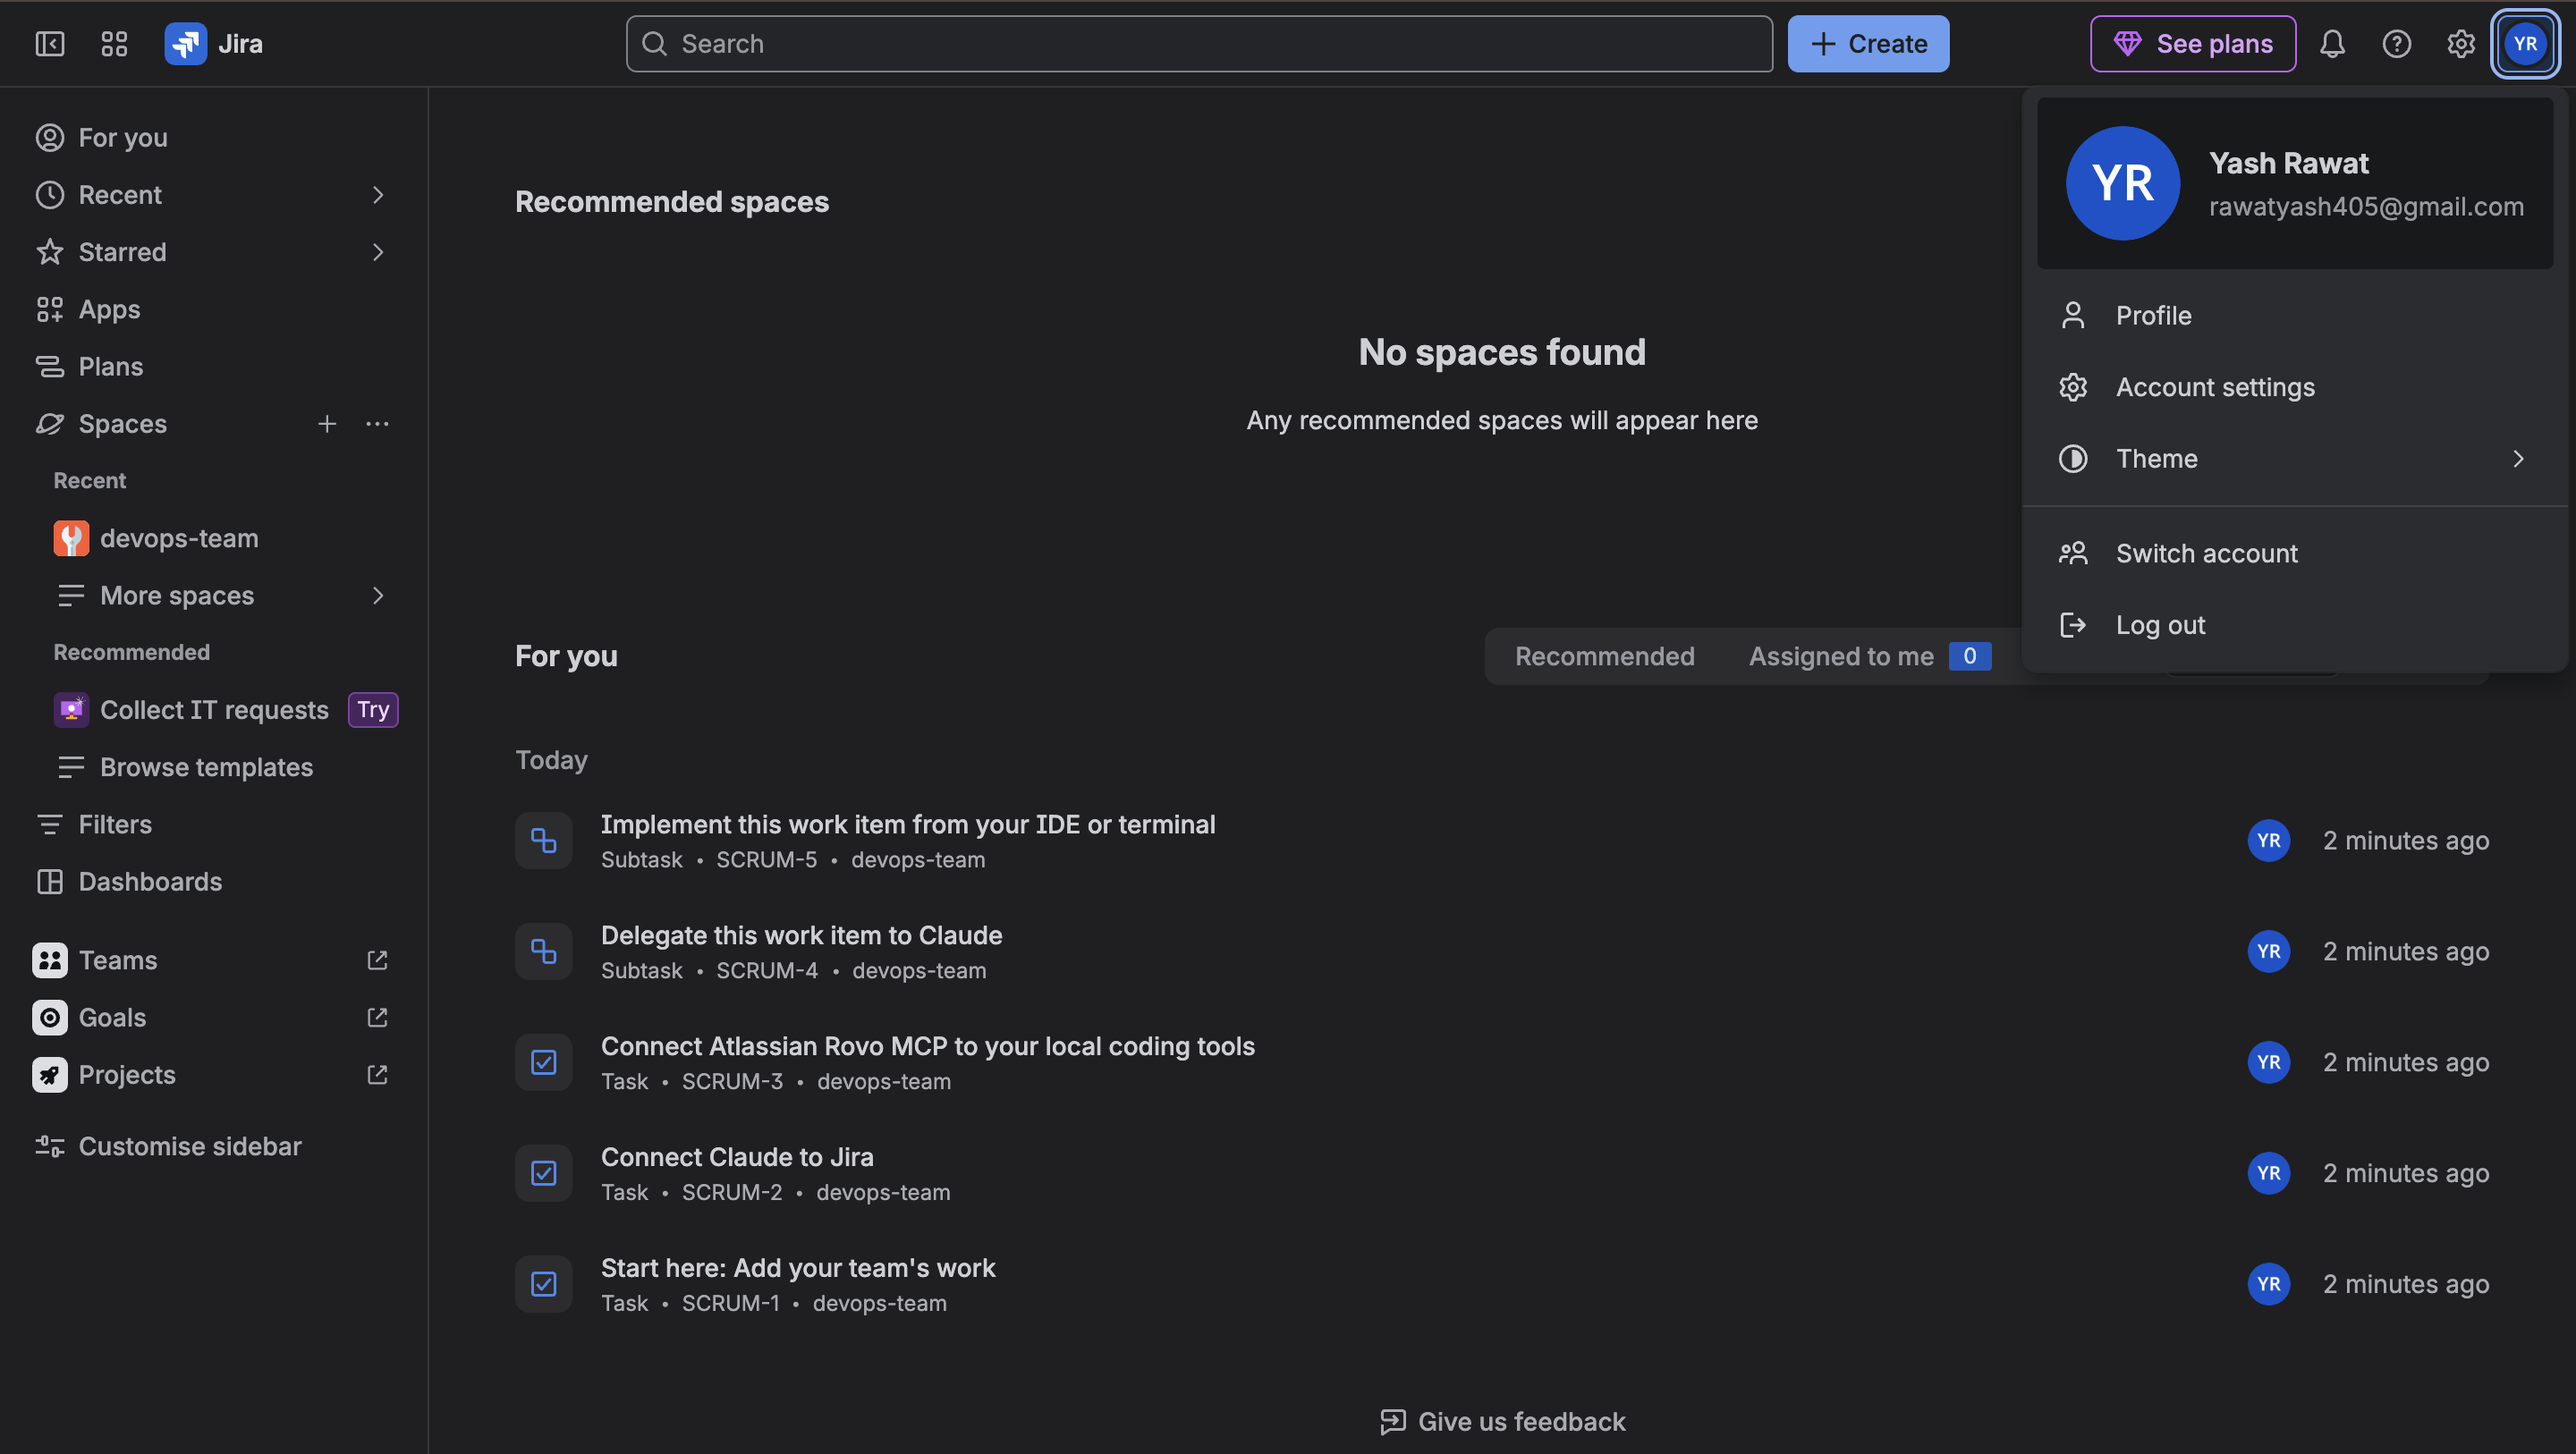
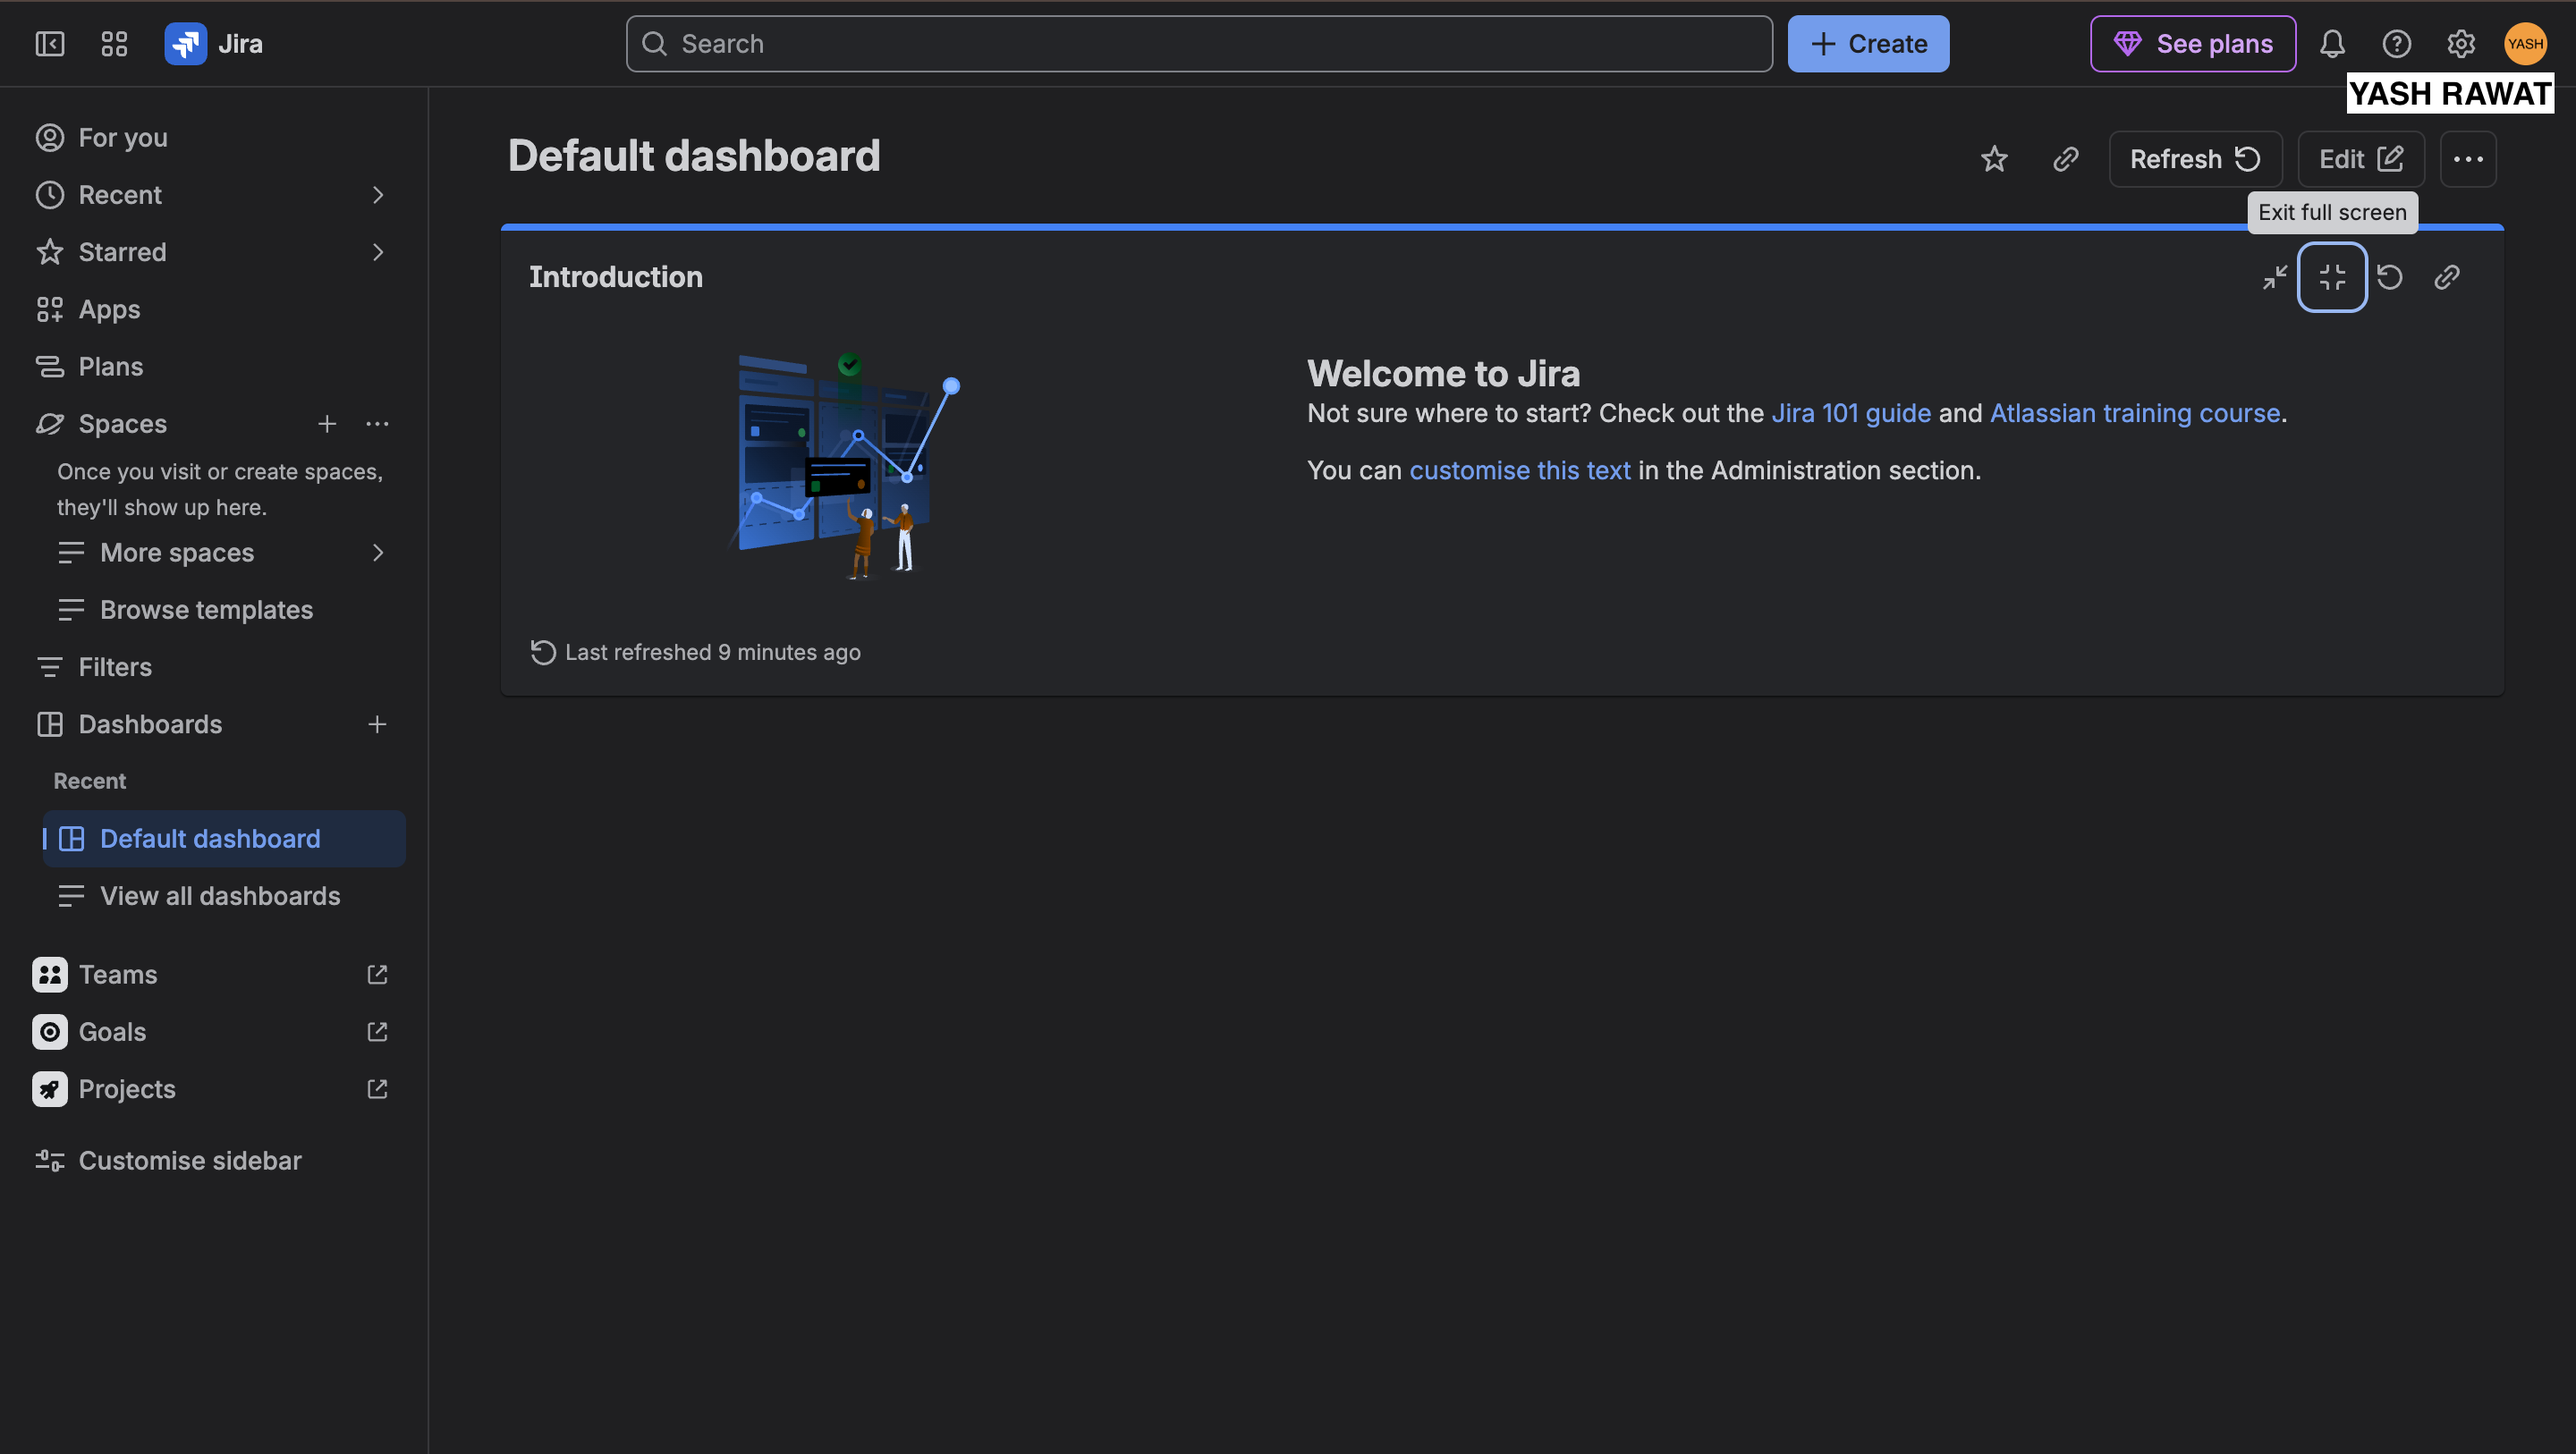
ss added

diff --git a/week-05-devops-lifecycle/assignment-02-stand-up-scrum-in-jira-for-dmi-website.md b/week-05-devops-lifecycle/assignment-02-stand-up-scrum-in-jira-for-dmi-website.md
@@ -20,7 +20,7 @@ Create a private, team-managed Scrum Space named `DevOps Micro-Internship Websit
 
 #### Screenshot 1 — Space confirmation or Space sidebar showing the Space name and key
 
-Add your screenshot here.
+![ss-1](./screenshots/ss5.2.1.png)
 
 ---
 
@@ -34,7 +34,7 @@ Create the Epic `Polish DMI Website UI & Deploy` to group the website UI and dep
 
 #### Screenshot 2 — Backlog showing the Epic panel enabled and the Epic visible
 
-Add your screenshot here.
+![ss-2](./screenshots/ss5.2.2.png)
 
 ---
 
@@ -48,13 +48,13 @@ Create all six required Stories (S1–S6) under the Epic, assign every Story to 
 
 #### Screenshot 3 — Backlog showing the Epic and all six Stories under it
 
-Add your screenshot here.
+![ss-3](./screenshots/ss5.2.3.png)
 
 ---
 
 #### Screenshot 4 — One opened Story showing its Story point estimate, acceptance criteria, and label
 
-Add your screenshot here.
+![ss-4](./screenshots/ss5.2.4.png)
 
 ---
 
@@ -68,13 +68,13 @@ Break down S2 (Primary button color refresh) and S4 (Footer with version and dat
 
 #### Screenshot 5 — S2 showing all four Sub-tasks
 
-Add your screenshot here.
+![ss-5](./screenshots/ss5.2.5.png)
 
 ---
 
 #### Screenshot 6 — S4 showing all four Sub-tasks
 
-Add your screenshot here.
+![ss-6](./screenshots/ss5.2.6.png)
 
 ---
 
@@ -88,7 +88,7 @@ Apply the `frontend` label to S1, S2, S3, S5, and S6, and the `devops` label to 
 
 #### Screenshot 7 — Backlog or Story details showing labels applied to at least two visible Stories
 
-Add your screenshot here.
+![ss-7](./screenshots/ss5.2.7.png)
 
 ---
 
@@ -102,13 +102,13 @@ Create a one-week Sprint, move two or three Stories into it (approximately 3–5
 
 #### Screenshot 8 — Sprint 1 before starting, showing the selected Stories and Story Points
 
-Add your screenshot here.
+![ss-8](./screenshots/ss5.2.8.png)
 
 ---
 
 #### Screenshot 9 — Active Sprint board showing the started Sprint and Sprint Goal
 
-Add your screenshot here.
+![ss-9](./screenshots/ss5.2.9.png)
 
 ---
 
@@ -122,13 +122,13 @@ Filter Jira work by the `frontend` and `devops` labels and review Stories with S
 
 #### Screenshot 10 — Filter for label = frontend showing the filtered results
 
-Add your screenshot here.
+![ss-10](./screenshots/ss5.2.10.png)
 
 ---
 
 #### Screenshot 11 — Filter for label = devops showing the filtered results
 
-Add your screenshot here.
+![ss-11](./screenshots/ss5.2.11.png)
 
 ---
 
@@ -142,7 +142,7 @@ Locate the Burndown Chart for Sprint 1 so it is ready for later progress trackin
 
 #### Screenshot 12 — Burndown Chart page opened for Sprint 1
 
-Add your screenshot here.
+![ss-12](./screenshots/ss5.2.12.png)
 
 ---
 
@@ -155,16 +155,16 @@ Add your screenshot here.
 
 # Completion Checklist
 
-- [ ] Task 1: Private team-managed Scrum Space created with your name (Screenshot 1)
-- [ ] Task 2: Epic "Polish DMI Website UI & Deploy" created (Screenshot 2)
-- [ ] Task 3: All six Stories connected to the Epic, assigned to you, with descriptions/acceptance criteria/points/labels (Screenshots 3 & 4)
-- [ ] Task 4: Four Sub-tasks created under both S2 and S4 (Screenshots 5 & 6)
-- [ ] Task 5: Frontend and devops labels applied to all Stories (Screenshot 7)
-- [ ] Task 6: One-week Sprint 1 started with the required Sprint Goal (Screenshots 8 & 9)
-- [ ] Task 7: Frontend and devops filters demonstrated (Screenshots 10 & 11)
-- [ ] Task 8: Burndown Chart opened for Sprint 1 (Screenshot 12)
-- [ ] Full Name visible in required screenshots
-- [ ] No sensitive data exposed
+- [x] Task 1: Private team-managed Scrum Space created with your name (Screenshot 1)
+- [x] Task 2: Epic "Polish DMI Website UI & Deploy" created (Screenshot 2)
+- [x] Task 3: All six Stories connected to the Epic, assigned to you, with descriptions/acceptance criteria/points/labels (Screenshots 3 & 4)
+- [x] Task 4: Four Sub-tasks created under both S2 and S4 (Screenshots 5 & 6)
+- [x] Task 5: Frontend and devops labels applied to all Stories (Screenshot 7)
+- [x] Task 6: One-week Sprint 1 started with the required Sprint Goal (Screenshots 8 & 9)
+- [x] Task 7: Frontend and devops filters demonstrated (Screenshots 10 & 11)
+- [x] Task 8: Burndown Chart opened for Sprint 1 (Screenshot 12)
+- [x] Full Name visible in required screenshots
+- [x] No sensitive data exposed
 
 ---
 

diff --git a/week-05-devops-lifecycle/assignment-01-create-your-jira-account-and-setup-profile.md b/week-05-devops-lifecycle/assignment-01-create-your-jira-account-and-setup-profile.md
@@ -97,10 +97,10 @@ Locate the project list and open a project's Board or Backlog, and view Project 
 - [x] Task 1: Jira Software Cloud account created or existing account accessed (Screenshot 1)
 - [x] Task 2: Email verification completed, or a Google sign-in note included (Screenshot 2 or Notes)
 - [x] Task 3: Professional profile updated with full name, role/title, and bio (Screenshot 3)
-- [ ] Task 4: Projects page, Board or Backlog, and Project settings explored without making changes (Screenshots 4 & 5)
-- [ ] No Jira issues created
-- [ ] Full Name visible in required screenshots
-- [ ] No sensitive data exposed
+- [x] Task 4: Projects page, Board or Backlog, and Project settings explored without making changes (Screenshots 4 & 5)
+- [x] No Jira issues created
+- [x] Full Name visible in required screenshots
+- [x] No sensitive data exposed
 
 ---
 
